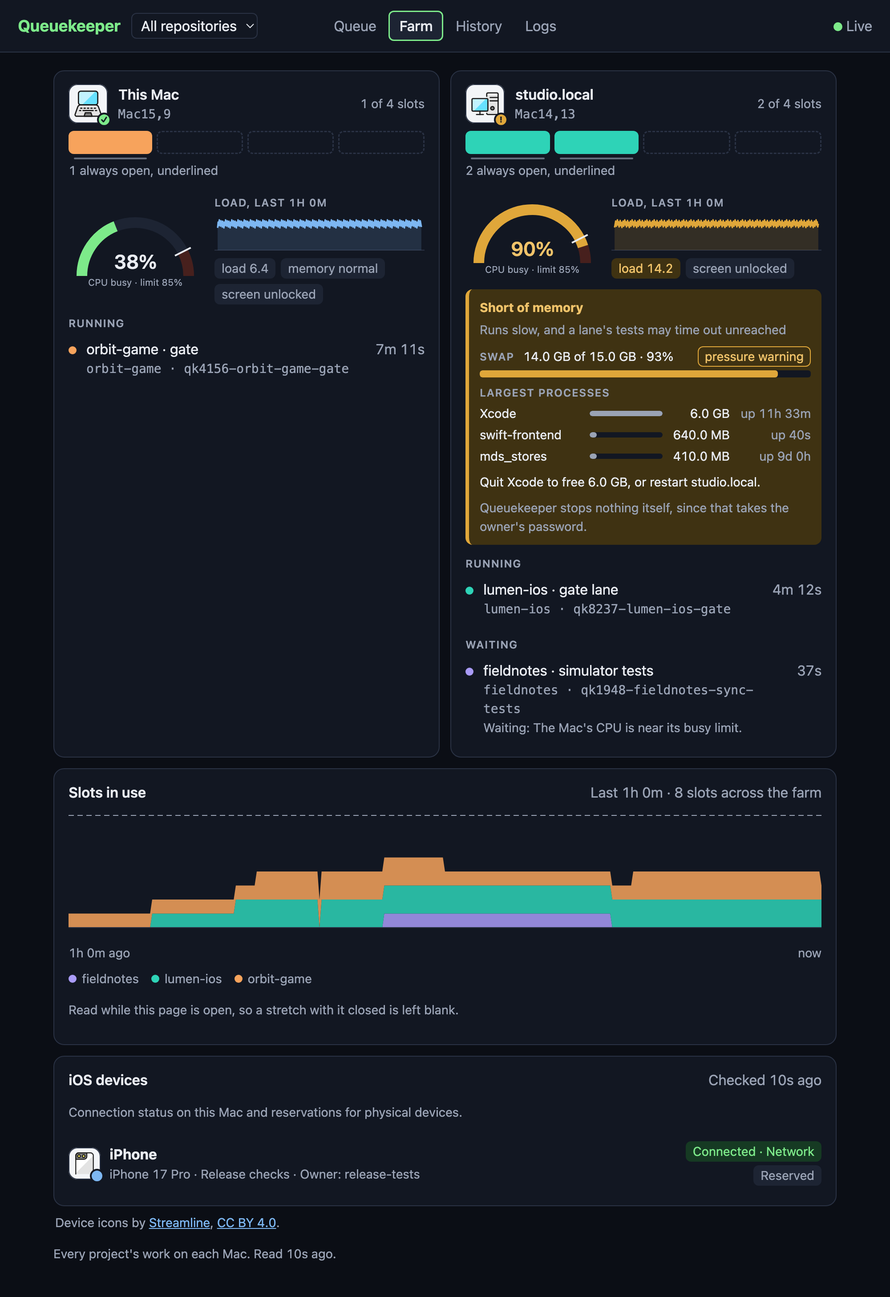
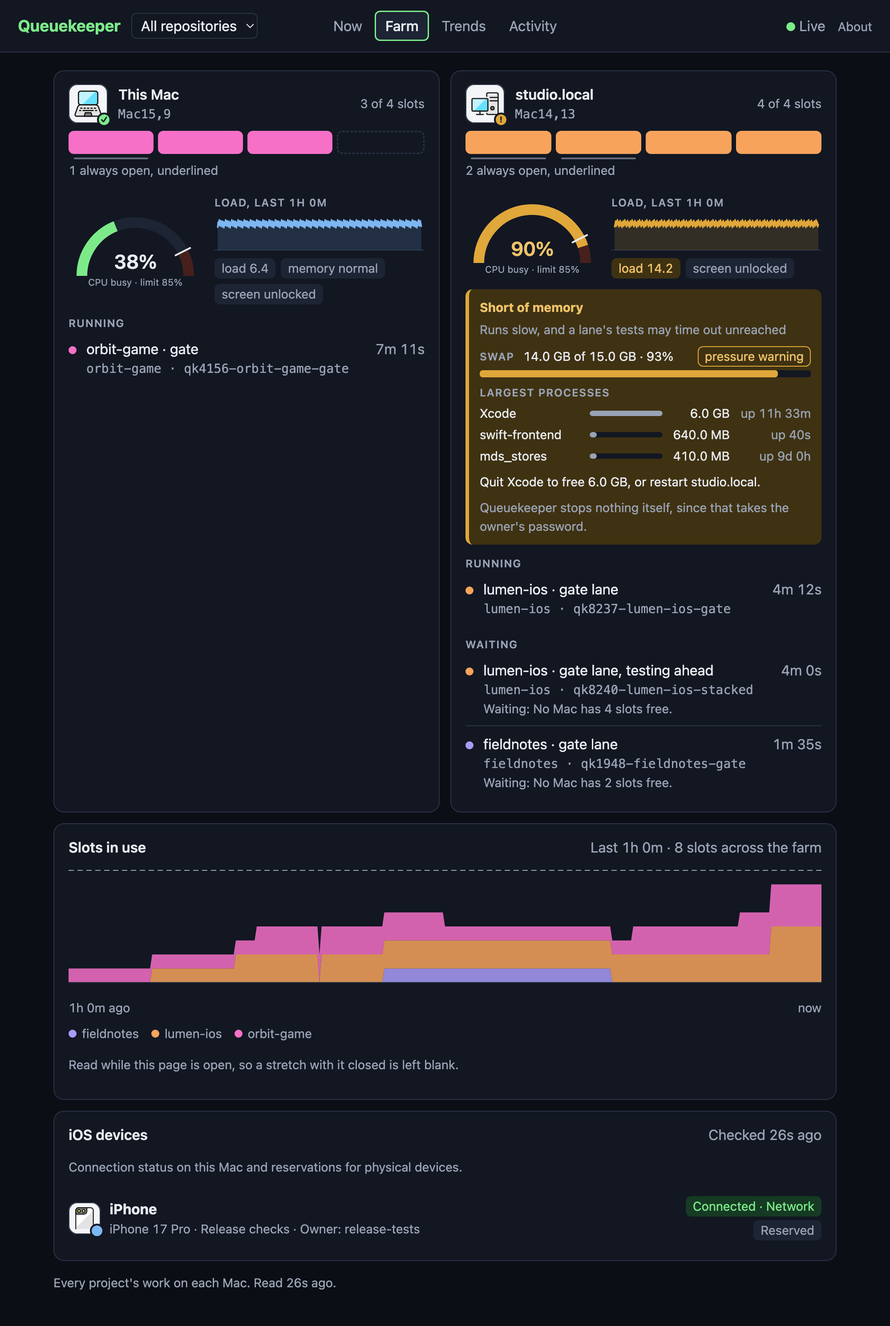
Have every repository's Flow map name whose each entry is, and retake the README's screenshots with a Flow map that shows each of its parts
The panel gives the page each entry without its directory or recorded agent, so every repository's flow map, which
reads those entries, counted them by branch prefix still: each now carries whose it is as "by". The Flow card says
"Who queued each entry" rather than "Agents by branch prefix".

The screenshots' made-up data is four projects busy enough to show the whole map: Claude, Codex and a person with
entries in them, a stacked round testing ahead and another project's gate each waiting for a Mac, both Macs nearly
full, an idle queue, and an entry of Codex's that came back within the hour.

diff --git a/plugins/visibility-dashboard/src/queuekeeper_dashboard/panels/queue.js b/plugins/visibility-dashboard/src/queuekeeper_dashboard/panels/queue.js
@@ -4,7 +4,7 @@
   const hueOf = name => "p" + (1 + [...name].reduce((sum, letter) => (sum * 31 + letter.charCodeAt(0)) % 9973, 7) % QK.HUES);
   const key = gate => gate.repository + "\n" + gate.role;
 
-  // The flow map: who has entries in the queues, by branch prefix, then the queues, the rounds' gates, the Macs they
+  // The flow map: who has entries in the queues (queue.py's agent), then the queues, the rounds' gates, the Macs they
   // run on and main. model is {queues, agents, gates, macs, back, landed, moving}: a queue for each repository shown,
   // each agent with the queues it has entries in, each gate and each Mac's gates with their repository. With one
   // queue it is a column of its own; with more, a node for each, in its repository's hue (hues). Dots travel the
@@ -232,7 +232,7 @@
           QK.number("Testing now", data.counts.testing, null, null),
         )),
       attention(data.attention || [], data.lines.filter(line => line.panel !== "queue"), context, hues),
-      h("div", { class: "card" }, h("h2", null, "Flow", h("span", { class: "muted" }, "Agents by branch prefix, across every repository")),
+      h("div", { class: "card" }, h("h2", null, "Flow", h("span", { class: "muted" }, "Who queued each entry, across every repository")),
         h("div", { class: "flow-map" }, flowMap({
           queues: data.flow.queues, agents: data.flow.agents, macs: data.flow.macs, back: data.flow.back,
           gates: data.rounds.flatMap(round => round.gates.map(gate => ({ ...gate, round: round.name }))),
@@ -294,7 +294,7 @@ QK.panel("queue", {
           h("p", { class: "wrap" }, overview.detail)],
         QK.overview(overview.counts, overview.trend)),
       attention(data.attention || [], overview.lines.filter(line => line.panel !== "queue" && ["danger", "warning"].includes(line.level)), context, null),
-      data.flow ? h("div", { class: "card" }, h("h2", null, "Flow", h("span", { class: "muted" }, "Agents by branch prefix")),
+      data.flow ? h("div", { class: "card" }, h("h2", null, "Flow", h("span", { class: "muted" }, "Who queued each entry")),
         h("div", { class: "flow-map" }, flowMap({
           queues: [{ name: context.repository, waiting: pending.length, testing: round && round.gates.length ? round.entries.length : 0,
             held: !!data.held, worker: data.worker }],

diff --git a/tools/dashboard-screenshots.py b/tools/dashboard-screenshots.py
@@ -7,8 +7,10 @@
 
 What is captured is the dashboard itself: this checkout's page, scripts and styles, served by the dashboard's own
 server. Each tab is taken where the page opens, showing every repository at once. Only the data is made up, the same
-every run: three projects, lumen-ios and orbit-game each with a round being tested and fieldnotes idle, with entries
-waiting and settled, and two Macs. Each project's answers are made up as one repository's, and the panels' own
+every run: four projects and two Macs, busy enough that the Flow map shows each of its parts. lumen-ios tests a
+batch on studio.local with a stacked round ahead of it waiting for a Mac, orbit-game tests on This Mac, fieldnotes'
+gate waits for a Mac and harbor-mac is idle. Claude, Codex and a person have entries in them, and an entry of Codex's
+came back within the hour. Each project's answers are made up as one repository's, and the panels' own
 `combine` makes every repository's from them, as the server does. Times are counted back from now, since the page shows each as how long ago it
 was. Three things differ from what `qk serve` sends: the data, the theme, which the page takes from the system and
 this script fixes, and one more script on the page, which reports the page's height so that each picture is as
@@ -71,39 +73,52 @@ REPOSITORIES = [
      "detail": "The gate lane is running on studio.local. 1 more waiting.", "waiting": 2},
     {"name": "orbit-game", "level": "active", "headline": "Testing 1 entry",
      "detail": "The gate lane is running on this Mac.", "waiting": 1},
-    {"name": "fieldnotes", "level": "idle", "headline": "Idle", "detail": "Nothing is waiting.", "waiting": 0},
+    {"name": "fieldnotes", "level": "active", "headline": "Testing 1 entry",
+     "detail": "The gate lane is waiting for a Mac.", "waiting": 0},
+    {"name": "harbor-mac", "level": "idle", "headline": "Idle", "detail": "Nothing is waiting.", "waiting": 0},
 ]
 
+# Each entry as the panel gives it, with whose it is (queue.agent) as "by".
 WAITING = [
     {"id": E["0412"], "state": "testing", "subject": "Cache decoded thumbnails between launches",
-     "branch": "agent/thumbnail-cache", "commits": 2, "submitted": ago(410)},
+     "branch": "claude/thumbnail-cache", "commits": 2, "submitted": ago(410), "by": "Claude"},
+    {"id": E["0413"], "state": "testing", "subject": "Fix the share sheet on iPad",
+     "branch": "claude/issue-42-share-sheet-ipad", "submitted": ago(365), "by": "Claude"},
     {"id": E["0415"], "state": "queued", "subject": "Add VoiceOver labels to the editor toolbar",
-     "branch": "agent/toolbar-labels", "submitted": ago(120)},
+     "branch": "toolbar-labels", "submitted": ago(120), "by": "Person"},
+    {"id": E["0416"], "state": "queued", "subject": "Show progress while a notebook imports",
+     "branch": "claude/import-progress", "submitted": ago(45), "by": "Claude"},
 ]
 
 RECENT = [
+    {"id": "qk0398-offline-merge", "state": "failed", "subject": "Merge a note edited offline",
+     "branch": "codex/offline-merge", "submitted": ago(2300), "settled": ago(1900), "by": "Codex",
+     "why": "The gate failed lumen.test_sync.Tests.test_a_note_edited_offline_merges on this commit on top of origin/main."},
     {"id": E["0411"], "state": "landed", "subject": "Keep the scroll position when a note is edited",
-     "branch": "agent/scroll-position", "landedAs": "4c9a1e7b02d3f8", "submitted": ago(1500), "settled": ago(540)},
+     "branch": "claude/scroll-position", "landedAs": "4c9a1e7b02d3f8", "submitted": ago(1500), "settled": ago(540), "by": "Claude"},
 ]
 
 PANELS = {
     "home": {
-        "level": "active", "headline": "Testing 1 entry",
-        "detail": "The gate lane is running on studio.local. 1 more waiting.", "began": ago(252),
-        "counts": {"waiting": 2, "landed": 12, "cameBack": 0},
+        "level": "active", "headline": "Testing 2 entries",
+        "detail": "The gate lane is running on studio.local. 2 more waiting.", "began": ago(252),
+        "counts": {"waiting": 2, "landed": 12, "cameBack": 1},
         "trend": {"waiting": [0, 0, 0, 0, 0, 0, 0, 0, 1, 2, 3, 2, 1, 1, 2, 4, 3, 2, 1, 0, 1, 2, 3, 2],
                   "landed": [0, 0, 0, 0, 0, 0, 0, 0, 0, 1, 2, 1, 0, 1, 2, 1, 1, 0, 1, 1, 0, 1, 0, 0],
-                  "cameBack": [0] * 24, "gateSeconds": [262, 248, 301, 255, 240, 236, 270, 252, 244, 238, 251, 249],
+                  "cameBack": [0] * 23 + [1], "gateSeconds": [262, 248, 301, 255, 240, 236, 270, 252, 244, 238, 251, 249],
                   "medianGateSeconds": 250},
         "lines": [],
     },
     "queue": {
         "worker": True, "held": None,
-        "round": {"name": ROUND, "base": "4c9a1e7b02d3f8", "entries": [E["0412"]], "bisect": None,
+        "round": {"name": ROUND, "base": "4c9a1e7b02d3f8", "entries": [E["0412"], E["0413"]], "bisect": None,
                   "gates": [
                       {"role": "batch", "lane": "gate", "mac": "studio.local", "began": ago(252),
                        "phase": "simulator tests, 212 of 340", "entries": [E["0412"]],
                        "log": ROUND + "-gate.log"},
+                      # Testing ahead: the batch with the next entry stacked on it, waiting for a Mac with room.
+                      {"role": "stacked", "lane": "gate", "began": ago(240), "waiting": "4 slots, which no Mac has free",
+                       "waitingSince": ago(240), "entries": [E["0412"], E["0413"]]},
                   ]},
         "waiting": WAITING, "recent": RECENT, "ungated": [],
         # What is open: one entry that came back and was not queued again, and a test found flaky (queue.attention).
@@ -116,18 +131,20 @@ PANELS = {
             {"level": "notice", "title": "Flaky", "at": ago(2900), "text": "lumen.test_sync.Tests.test_a_note_edited_offline_merges",
              "issue": "https://github.com/example/lumen/issues/41"}],
         "health": {"verdict": "good", "level": health.OK, "label": "All good",
-                   "sentence": "Testing 1 entry and 1 waits behind it, the gate about as long as its usual 4m; "
-                               "the last entry landed 9m ago, and This Mac has room.",
-                   "signs": [health.sign("progress", health.OK, "testing 1 entry, 1 waiting", "Testing 1, 1 waiting"),
+                   "sentence": "Testing 2 entries and 2 wait behind them, the gate about as long as its usual 4m; "
+                               "the last entry landed 9m ago.",
+                   "signs": [health.sign("progress", health.OK, "testing 2 entries, 2 waiting", "Testing 2, 2 waiting"),
                              health.sign("pace", health.OK, "the last entry landed 9m ago", "Last landed 9m ago"),
-                             health.sign("macs", health.OK, "This Mac has room"),
+                             health.sign("macs", health.OK, "1 slot free on This Mac"),
                              health.sign("devices", health.OK, "1 of 1 connected"),
-                             health.sign("cameBack", health.OK, "none of the last 8 came back")],
+                             health.sign("cameBack", health.OK, "1 of the last 8 came back")],
                    "forecast": {"waiting": 2, "clearsAt": ago(-540)}, "usualGateSeconds": 250, "findings": [],
                    "exitStatus": health.HEALTHY},
-        "flow": {"agents": [{"name": "agent", "waiting": 1, "testing": 1}], "back": None,
-                 "macs": [{"name": "This Mac", "role": "here", "state": "observed", "used": 1, "most": 4, "gates": []},
-                          {"name": "studio.local", "role": "second", "state": "observed", "used": 2, "most": 4, "gates": ["batch"]}]},
+        "flow": {"agents": [{"name": "Claude", "waiting": 1, "testing": 2}, {"name": "Person", "waiting": 1, "testing": 0}],
+                 "back": {"agent": "Codex", "id": "qk0398-offline-merge", "subject": "Merge a note edited offline",
+                          "state": "failed", "settled": ago(1900)},
+                 "macs": [{"name": "This Mac", "role": "here", "state": "observed", "used": 3, "most": 4, "gates": []},
+                          {"name": "studio.local", "role": "second", "state": "observed", "used": 4, "most": 4, "gates": ["batch"]}]},
     },
     "farm": {
         "readAt": ago(4), "error": None,
@@ -136,27 +153,28 @@ PANELS = {
              "load": {"cpuBusy": 38, "busyLimit": 85, "load": 6.4, "memory": "normal", "screen": "unlocked", "error": None,
                       "health": None, "shortage": None,
                       "hardware": {"model": "Mac15,9", "kind": "laptop"}},
-             "slots": {"used": 1, "guaranteed": 1, "most": 4},
-             "cells": [{"held": True, "project": "orbit-game", "guaranteed": True},
-                       {"held": False, "project": None, "guaranteed": False}, {"held": False, "project": None, "guaranteed": False},
-                       {"held": False, "project": None, "guaranteed": False}],
+             "slots": {"used": 3, "guaranteed": 1, "most": 4},
+             "cells": [{"held": True, "project": "orbit-game", "guaranteed": True}, {"held": True, "project": "orbit-game", "guaranteed": False},
+                       {"held": True, "project": "orbit-game", "guaranteed": False}, {"held": False, "project": None, "guaranteed": False}],
              "holders": [
                  {"id": "qk4156-orbit-game-gate", "label": "orbit-game · gate", "heldSeconds": 431, "project": "orbit-game",
-                  "slots": 1, "wholeHost": False, "exclusive": False}],
+                  "slots": 3, "wholeHost": False, "exclusive": False}],
              "waiters": []},
             {"name": "studio.local", "role": "second", "state": "observed", "reasons": [],
              "load": {"cpuBusy": 90, "busyLimit": 85, "load": 14.2, "memory": "warning", "screen": "unlocked", "error": None,
                       "health": host_health.warnings(SHORT, "studio.local")[0], "shortage": host_health.shortage(SHORT),
                       "hardware": {"model": "Mac14,13", "kind": "desktop"}},
-             "slots": {"used": 2, "guaranteed": 2, "most": 4},
+             "slots": {"used": 4, "guaranteed": 2, "most": 4},
              "cells": [{"held": True, "project": "lumen-ios", "guaranteed": True}, {"held": True, "project": "lumen-ios", "guaranteed": True},
-                       {"held": False, "project": None, "guaranteed": False}, {"held": False, "project": None, "guaranteed": False}],
+                       {"held": True, "project": "lumen-ios", "guaranteed": False}, {"held": True, "project": "lumen-ios", "guaranteed": False}],
              "holders": [
                  {"id": "qk8237-lumen-ios-gate", "label": "lumen-ios · gate lane", "heldSeconds": 252, "project": "lumen-ios",
-                  "slots": 2, "wholeHost": True, "exclusive": False}],
+                  "slots": 4, "wholeHost": True, "exclusive": False}],
              "waiters": [
-                 {"id": "qk1948-fieldnotes-sync-tests", "label": "fieldnotes · simulator tests", "waitedSeconds": 37, "project": "fieldnotes",
-                  "reason": "The Mac's CPU is near its busy limit."}]},
+                 {"id": "qk8240-lumen-ios-stacked", "label": "lumen-ios · gate lane, testing ahead", "waitedSeconds": 240,
+                  "project": "lumen-ios", "reason": "No Mac has 4 slots free."},
+                 {"id": "qk1948-fieldnotes-gate", "label": "fieldnotes · gate lane", "waitedSeconds": 95, "project": "fieldnotes",
+                  "reason": "No Mac has 2 slots free."}]},
         ],
     },
     "history": {
@@ -203,7 +221,8 @@ PANELS["farm"]["samples"] = [
     {"at": ago(3600 - 10 * step), "most": 8,
      "macs": {"here": {"cpuBusy": 38, "load": round(5 + 2 * ((step * 7) % 11) / 11, 1)},
               "second": {"cpuBusy": 90, "load": round(11 + 4 * ((step * 5) % 13) / 13, 1)}},
-     "projects": {"orbit-game": 1 + (step // 90) % 2, "lumen-ios": 2 if step > 120 else (step // 40) % 3, "fieldnotes": 1 if 150 < step < 260 else 0}}
+     "projects": {"orbit-game": 3 if step > 320 else 1 + (step // 90) % 2, "lumen-ios": 4 if step > 335 else 2 if step > 120 else (step // 40) % 3,
+                  "fieldnotes": 1 if 150 < step < 260 else 0}}
     for step in range(361)]
 # Today's lane runs on each Mac, landings over the last week, and the last passing gates' seconds.
 PANELS["history"].update(
@@ -244,37 +263,45 @@ LOGS = [{"name": "worker.log", "size": 48213, "modified": ago(3)},
 
 
 ORBIT = time.strftime("%Y%m%d-%H%M%S", time.localtime(ago(431))) + "-9e21b4c0"
+NOTES = time.strftime("%Y%m%d-%H%M%S", time.localtime(ago(95))) + "-51f0c3e8"
 LEVEL = {"id": "qk0420-level-select", "state": "testing", "subject": "Remember the last level played",
-         "branch": "codex/level-select", "submitted": ago(980)}
+         "branch": "codex/level-select", "submitted": ago(980), "by": "Codex"}
+HINTS = {"id": "qk0423-level-hints", "state": "queued", "subject": "Offer a hint after three failed tries",
+         "branch": "codex/level-hints", "submitted": ago(210), "by": "Codex"}
 LEVELS = {"id": "qk0381-level-timer", "state": "landed", "subject": "Pause the level timer while the game is in the background",
-          "branch": "codex/level-timer", "landedAs": "3b8e51c0d7a2f9", "submitted": ago(3900), "settled": ago(2900)}
+          "branch": "codex/level-timer", "landedAs": "3b8e51c0d7a2f9", "submitted": ago(3900), "settled": ago(2900), "by": "Codex"}
+SYNC = {"id": "qk0402-sync-conflicts", "state": "testing", "subject": "Show both versions when a sync conflicts",
+        "branch": "worktree-agent-a5181cd05a8167cb", "submitted": ago(160), "by": "Claude"}
 JOURNAL = {"id": "qk0398-journal-export", "state": "landed", "subject": "Export a journal as Markdown",
-           "branch": "agent/journal-export", "landedAs": "77c1e0d4a9b2f3", "submitted": ago(5200), "settled": ago(4100)}
+           "branch": "claude/journal-export", "landedAs": "77c1e0d4a9b2f3", "submitted": ago(5200), "settled": ago(4100), "by": "Claude"}
+DOCK = {"id": "qk0217-dock-badge", "state": "landed", "subject": "Badge the Dock icon with the unread count",
+        "branch": "dock-badge", "landedAs": "e3a90b7c51d2f4", "submitted": ago(7900), "settled": ago(6800), "by": "Person"}
 
 
 def others():
-    """orbit-game's and fieldnotes' own answers, from lumen-ios's: orbit-game testing one entry on This Mac, and
-    fieldnotes idle, having landed earlier in the day."""
-    orbit, notes = copy.deepcopy(PANELS), copy.deepcopy(PANELS)
-    for found, landed in ((orbit, 5), (notes, 7)):
+    """orbit-game's, fieldnotes' and harbor-mac's own answers, from lumen-ios's: orbit-game testing an entry on This
+    Mac with another waiting, fieldnotes' gate waiting for a Mac, and harbor-mac idle, having landed earlier in the day."""
+    orbit, notes, harbor = copy.deepcopy(PANELS), copy.deepcopy(PANELS), copy.deepcopy(PANELS)
+    for found, landed in ((orbit, 5), (notes, 7), (harbor, 4)):
         found["queue"]["overview"].update(counts={"waiting": 0, "landed": landed, "cameBack": 0}, lines=[])
         found["queue"]["overview"]["trend"].update(
             landed=[(hour * 7 + landed * 3) % 9 // 6 if 8 <= hour <= 20 else 0 for hour in range(24)],
             waiting=[(hour * 3 + landed) % 5 // 4 for hour in range(24)])
-        own = JOURNAL if found is notes else LEVELS
-        found["queue"].update(recent=[own], waiting=[], round=None)
-        found["queue"]["flow"]["agents"] = []
+        own = {id(notes): JOURNAL, id(harbor): DOCK}.get(id(found), LEVELS)
+        found["queue"].update(recent=[own], waiting=[], round=None, attention=[])
+        found["queue"]["flow"].update(agents=[], back=None)
         for mac in found["queue"]["flow"]["macs"]: mac["gates"] = []
         found["history"].update(gates=[], daily=[{**day, "landed": day["landed"] // 2, "cameBack": 0} for day in found["history"]["daily"]])
         found["activity"] = {"total": 1, "feed": [{"kind": "round", "time": own["settled"] - 300, "round": ROUND, "head": None, "flaky": [],
             "entries": [{"id": own["id"], "subject": own["subject"], "branch": own["branch"], "state": "landed", "landedAs": own["landedAs"]}],
             "lanes": [{"lane": "gate", "role": "batch", "status": 0, "seconds": 280, "log": None}]}]}
         found["history"]["gateSeconds"] = [seconds * 7 // 4 if found is orbit else seconds // 3 for seconds in found["history"]["gateSeconds"]]
+        found["queue"]["health"]["signs"][4] = health.sign("cameBack", health.OK, "none of the last 8 came back")
         found["history"]["today"].update(landed=landed, rounds=landed, removed=0,
                                          medianGateSeconds=sorted(found["history"]["gateSeconds"])[len(found["history"]["gateSeconds"]) // 2])
     orbit["queue"]["overview"].update(level="active", headline="Testing 1 entry", detail="The gate lane is running on This Mac.",
                                       began=ago(431), counts={"waiting": 1, "landed": 5, "cameBack": 0})
-    orbit["queue"].update(waiting=[LEVEL], round={"name": ORBIT, "base": "9e21b4c0f2a7d1", "entries": [LEVEL["id"]], "bisect": None,
+    orbit["queue"].update(waiting=[LEVEL, HINTS], round={"name": ORBIT, "base": "9e21b4c0f2a7d1", "entries": [LEVEL["id"]], "bisect": None,
         "gates": [{"role": "batch", "lane": "gate", "mac": "This Mac", "began": ago(431), "phase": "unit tests, 88 of 140",
                    "entries": [LEVEL["id"]], "log": ORBIT + "-gate.log"}]})
     orbit["queue"]["flow"]["agents"] = [{"name": "codex", "waiting": 0, "testing": 1}]
@@ -282,25 +309,36 @@ def others():
     orbit["queue"]["overview"]["trend"]["medianGateSeconds"] = 445
     orbit["queue"]["health"].update(sentence="Testing 1 entry, the gate about as long as its usual 7m.",
                                     forecast={"waiting": 1, "clearsAt": ago(-60)})
-    orbit["queue"]["health"]["signs"][0] = health.sign("progress", health.OK, "testing 1 entry", "Testing 1")
-    notes["queue"]["health"]["signs"][0] = health.sign("progress", health.IDLE, "nothing is waiting", "Nothing waiting")
-    notes["queue"]["health"]["signs"][1] = health.sign("pace", health.OK, "the last entry landed 1h 8m ago", "Last landed 1h 8m ago")
+    orbit["queue"]["health"]["signs"][0] = health.sign("progress", health.OK, "testing 1 entry, 1 waiting", "Testing 1, 1 waiting")
+    notes["queue"]["overview"].update(level="active", headline="Testing 1 entry", detail="The gate lane is waiting for a Mac.",
+                                      began=ago(95), counts={"waiting": 0, "landed": 7, "cameBack": 0})
+    notes["queue"].update(waiting=[SYNC], round={"name": NOTES, "base": "51f0c3e8a92d7b", "entries": [SYNC["id"]], "bisect": None,
+        "gates": [{"role": "batch", "lane": "gate", "began": ago(95), "waiting": "2 slots, which no Mac has free",
+                   "waitingSince": ago(95), "entries": [SYNC["id"]]}]})
+    notes["queue"]["health"].update(sentence="Testing 1 entry, its gate waiting 1m 35s for a Mac with room.", forecast={"waiting": 1, "clearsAt": ago(-420)})
+    notes["queue"]["health"]["signs"][0] = health.sign("progress", health.OK, "testing 1 entry", "Testing 1")
+    notes["activity"]["feed"].insert(0, {"kind": "round", "time": ago(95), "round": NOTES, "head": None, "flaky": [],
+        "entries": [{"id": SYNC["id"], "subject": SYNC["subject"], "branch": SYNC["branch"], "state": "testing"}],
+        "lanes": [{"lane": "gate", "role": "batch", "status": None, "seconds": 95, "log": None}]})
+    harbor["queue"]["health"]["signs"][0] = health.sign("progress", health.IDLE, "nothing is waiting", "Nothing waiting")
+    harbor["queue"]["health"]["signs"][1] = health.sign("pace", health.OK, "the last entry landed 1h 53m ago", "Last landed 1h 53m ago")
     orbit["activity"]["feed"].insert(0, {"kind": "round", "time": ago(431), "round": ORBIT, "head": None, "flaky": [],
         "entries": [{"id": LEVEL["id"], "subject": LEVEL["subject"], "branch": LEVEL["branch"], "state": "testing"}],
         "lanes": [{"lane": "gate", "role": "batch", "status": None, "seconds": 431, "log": ORBIT + "-gate.log"}]})
     orbit["history"]["gates"] = [{"began": ago(3600 * back + 130), "ended": ago(3600 * back), "lane": "gate", "status": 0, "mac": None,
                                   "round": None, "log": None} for back in (6.5, 4.5, 2.5)]
-    notes["queue"]["overview"].update(level="idle", headline="Idle", detail="Nothing is waiting.", began=None)
-    notes["queue"]["health"].update(verdict="quiet", level=health.IDLE, label="All quiet", forecast=None,
-                                    sentence="Nothing is waiting. The last entry landed 1h 8m ago. The Macs are ready.")
-    return {"orbit-game": orbit, "fieldnotes": notes}
+    harbor["queue"]["overview"].update(level="idle", headline="Idle", detail="Nothing is waiting.", began=None)
+    harbor["queue"]["health"].update(verdict="quiet", level=health.IDLE, label="All quiet", forecast=None,
+                                     sentence="Nothing is waiting. The last entry landed 1h 53m ago.")
+    return {"orbit-game": orbit, "fieldnotes": notes, "harbor-mac": harbor}
 
 
 MADE_UP = {REPOSITORY: PANELS, **others()}
 OTHER_LOGS = {"orbit-game": [{"name": "worker.log", "size": 20117, "modified": ago(5)},
                              {"name": ORBIT + "-gate.log", "size": 88213, "modified": ago(5), "round": ORBIT[:15], "commit": ORBIT[16:],
                               "lane": "gate", "running": True}],
-              "fieldnotes": [{"name": "worker.log", "size": 9120, "modified": ago(4100)}]}
+              "fieldnotes": [{"name": "worker.log", "size": 9120, "modified": ago(95)}],
+              "harbor-mac": [{"name": "worker.log", "size": 6342, "modified": ago(6800)}]}
 
 
 def everywhere(tab, query):

diff --git a/plugins/visibility-dashboard/src/queuekeeper_dashboard/panels/queue.py b/plugins/visibility-dashboard/src/queuekeeper_dashboard/panels/queue.py
@@ -17,7 +17,7 @@ GATE = ("lane", "mac", "began", "waiting", "waitingSince", "stuck", "entries")
 NEWS = 3600
 # How far back the Queue tab's Needs attention looks for an entry that came back and a flaky test.
 OPEN = 86400
-# The busiest branch prefixes the flow map gives a node of their own; the others share one.
+# The busiest agents (agent) the flow map gives a node of their own; the others share one.
 AGENTS = 4
 
 
@@ -27,6 +27,7 @@ def entry(found):
     if found.get("commits"): shown["commits"] = len(found["commits"])
     if found.get("flakes"): shown["flakes"] = len(found["flakes"])
     if found.get("ungated"): shown["ungated"] = True
+    shown["by"] = agent(found)
     return shown
 
 
@@ -79,8 +80,10 @@ PERSON = "Person"
 def agent(entry):
     """Who submitted entry, as the flow map names them: the coding agent its submission recorded (resources.coding_agent);
     for one submitted before entries recorded it, the agent whose worktree it was submitted from; then its branch's
-    prefix, claude/fix-it being Claude's and ann/fix-it ann's; and a Person for a branch with none."""
+    prefix, claude/fix-it being Claude's and ann/fix-it ann's; and a Person for a branch with none. An entry as the page
+    is given it (entry) carries this name as "by"."""
     entry = entry or {}
+    if entry.get("by"): return entry["by"]  # named already, as entry shows it to the page
     if entry.get("agent") in AGENT_NAMES: return AGENT_NAMES[entry["agent"]]
     directory = str(entry.get("directory") or "") + "/"
     found = next((key for key, where in AGENT_WORKTREES.items() if where in directory), None)
@@ -105,7 +108,7 @@ def macs():
 
 
 def flow(state, gates, now):
-    """What the Queue tab's flow map draws: who has entries in the queue, by branch prefix, busiest first; the Macs,
+    """What the Queue tab's flow map draws: who has entries in the queue (agent), busiest first; the Macs,
     each with the roles of the round's gates that run on it; and the last entry to come back within NEWS, if one did."""
     counts, current = {}, set((state.get("round") or {}).get("entries") or [])
     for found in state.get("waiting") or []:

diff --git a/tests/visibility/test_dashboard.py b/tests/visibility/test_dashboard.py
@@ -295,6 +295,10 @@ class Panels(Fixture):
         self.assertEqual(queue.agent({"directory": "/u/.codex/worktrees/de6d/r", "branch": None}), "Codex")
         self.assertEqual(queue.agent({"agent": "unknown", "directory": "/r", "branch": "ann/x"}), "ann")
         self.assertEqual(queue.agent(None), "Person")
+        # The page is given an entry without where it came from, so it carries whose it is, which every repository's
+        # flow map reads.
+        shown = queue.entry({"id": "x", "agent": "claude", "directory": "/r", "branch": "worktree-agent-a5"})
+        self.assertEqual((shown["by"], "directory" in shown, queue.agent(shown)), ("Claude", False, "Claude"))
         self.assertEqual(queue.data(self.one, {})["flow"]["agents"], [])
 
     def test_each_mac_is_drawn_by_its_kind_which_a_battery_tells_and_a_model_alone_does_not(self):

diff --git a/tests/visibility/test_dashboard_screenshots.py b/tests/visibility/test_dashboard_screenshots.py
@@ -69,7 +69,7 @@ class MadeUpData(test_dashboard.Fixture):
 
     def test_an_entry_and_a_gate_have_only_fields_the_queue_panel_shows(self):
         queue = panels.load("queue")
-        shown = {*queue.ENTRY, "log", "commits", "flakes", "ungated"}
+        shown = {*queue.ENTRY, "log", "commits", "flakes", "ungated", "by"}
         for found in [*self.script.WAITING, *self.script.RECENT]: self.assertLessEqual(set(found), shown)
         for found in self.script.PANELS["queue"]["round"]["gates"]:
             self.assertLessEqual(set(found), {*queue.GATE, "role", "log", "phase"})

diff --git a/README.md b/README.md
@@ -125,7 +125,7 @@ day's totals, a row for each project, every round being tested, and every entry 
 next. New arrivals tested on top of the current batch are labeled **Testing ahead**.
 
 <p align="center">
-  <img src="assets/dashboard-home.png" alt="The dashboard's Queue home view across three projects: a one-sentence health verdict with a forecast and five signs, daily totals, a row for each project, the flow from agents through each project's queue to main, two rounds being tested, two entries in progress and one up next, each tagged with its project." width="100%">
+  <img src="assets/dashboard-home.png" alt="The dashboard's Now view across four projects: a one-sentence health verdict with a forecast and five signs, daily totals, an entry that came back and a flaky test needing attention, the flow from Claude, Codex and a person through each project's queue, the rounds' gates and two Macs to main, with two gates waiting for a Mac and an arc back to the agent whose entry came back, then four gates being tested and three entries up next, each tagged with its project." width="100%">
 </p>
 
 **Farm** shows each Mac's slots, its load, and the work running and waiting on it, for every
